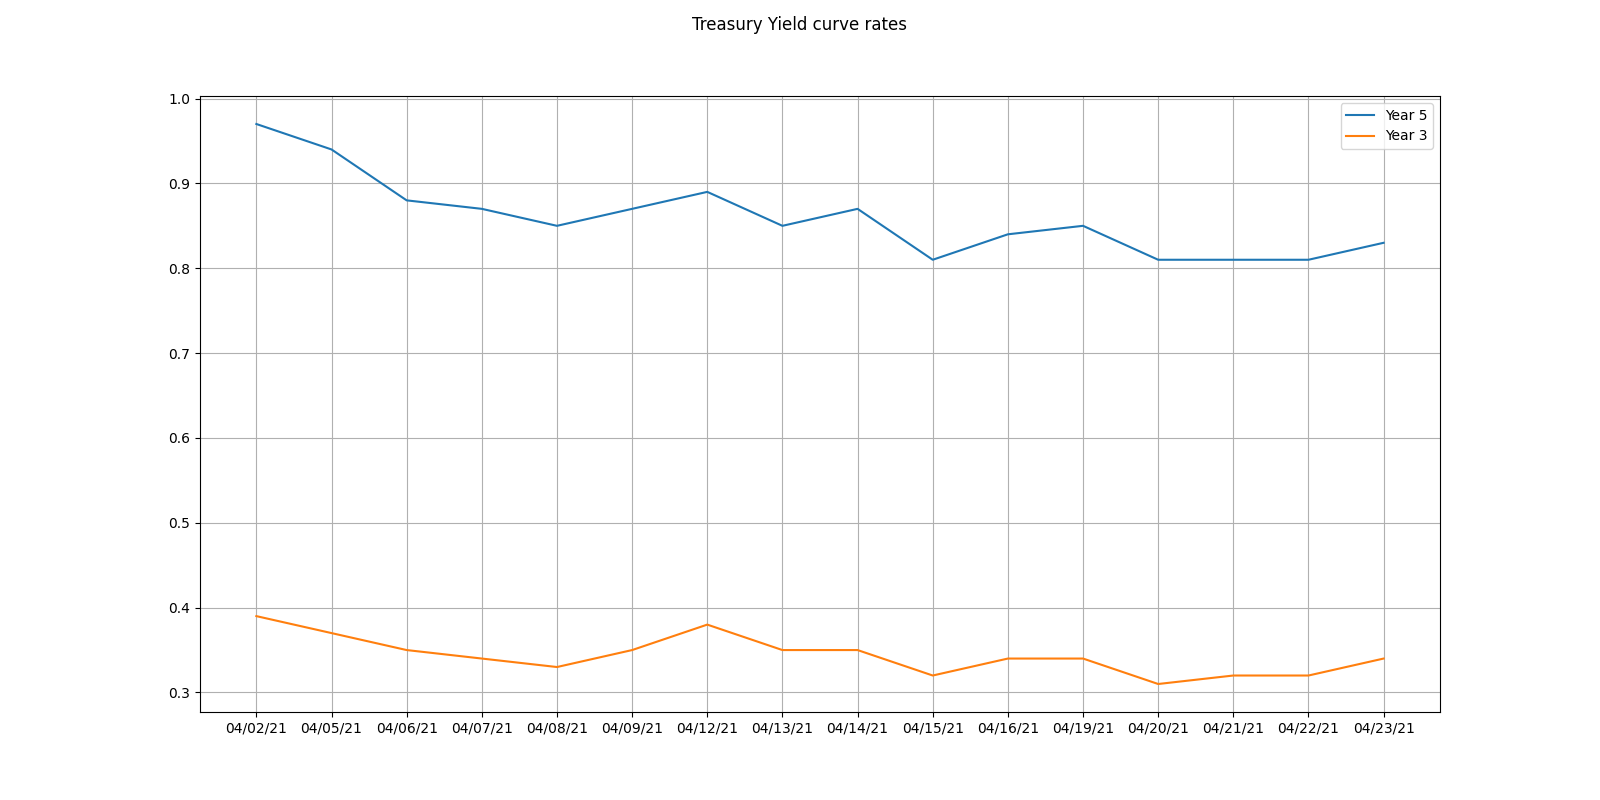
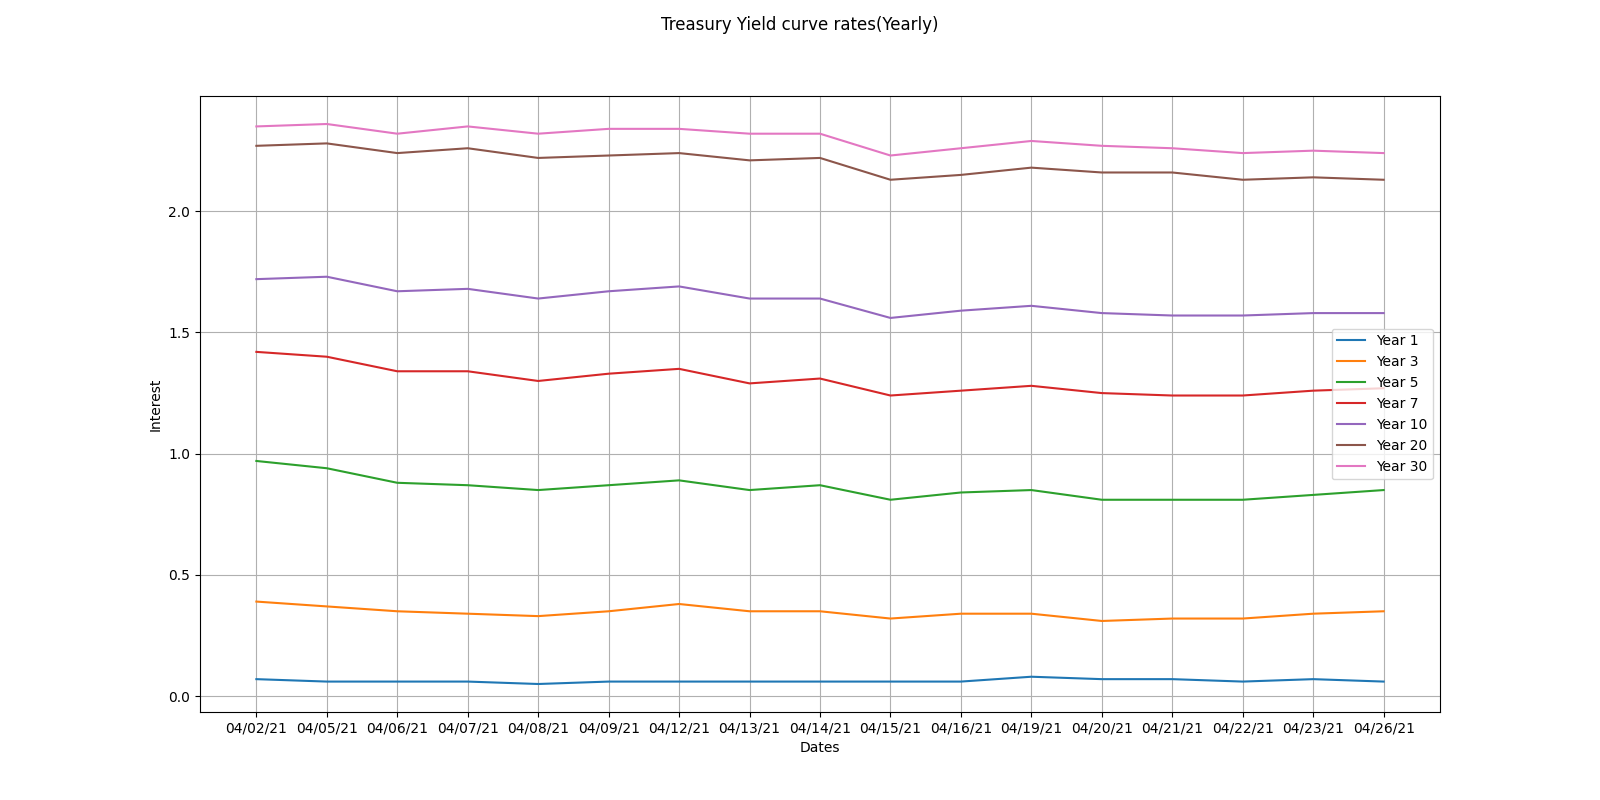
script update

diff --git a/script.py b/script.py
@@ -40,6 +40,8 @@ def make_chart():
     plt.plot(df['Date'],df['20 Yr'], label='Year 20')
     plt.plot(df['Date'],df['30 Yr'], label='Year 30')
     plt.suptitle('Treasury Yield curve rates(Yearly)')
+    plt.xlabel('Dates')
+    plt.ylabel('Interest')
     plt.grid()
     plt.legend()
     plt.savefig('charts/Treasury_curve.png')
